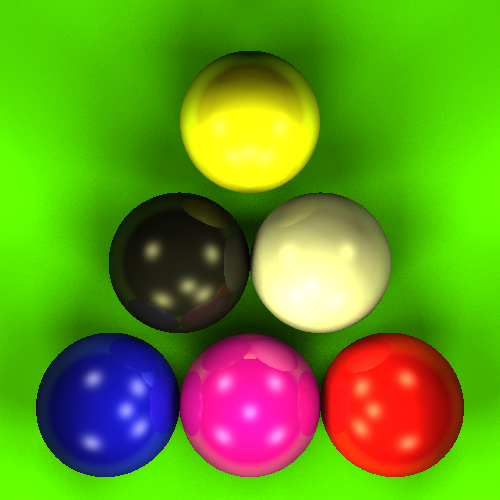
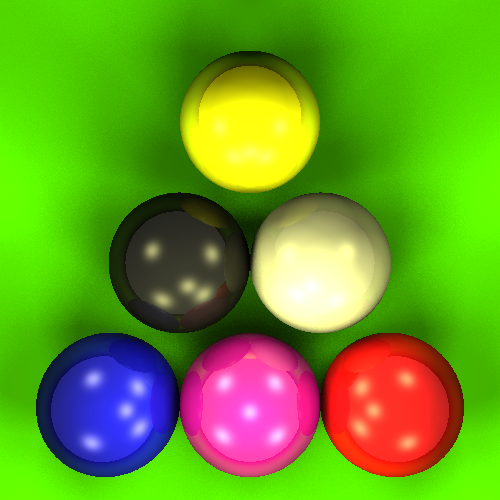
Fixed sky color

diff --git a/ray_tracer.py b/ray_tracer.py
@@ -18,12 +18,12 @@ def construct_pixel_ray(camera, screen, i, j):
 
 def calc_pixel_color(scene, ray, recursion_depth):
     if recursion_depth == scene.settings.max_recursion:
-        return scene.settings.bg_color
+        return np.array(scene.settings.bg_color)
     surfaces = intersect.find_intersect(scene, ray, find_all=True)
     if len(surfaces) == 0:
-        return scene.settings.bg_color
+        return np.array(scene.settings.bg_color)
     output_color = calc_surface_color(scene, ray, surfaces, 0, recursion_depth)
-    return output_color
+    return np.array(output_color)
 
 
 def calc_surface_normal(surface, min_intersect):

diff --git a/scene_utils.py b/scene_utils.py
@@ -115,7 +115,9 @@ class Vector:
         self.dir = dir / np.linalg.norm(dir)
 
     def perpendicular_vector(self):
-        vector = np.cross(self.dir, np.array([0, 0, 1]))
+        vector = np.cross(self.dir, np.array([1, 0, 0]))
+        if (vector == 0).all():
+            vector = np.cross(self.dir, np.array([0, 1, 0]))
         vector /= np.linalg.norm(vector)
         return vector
 
